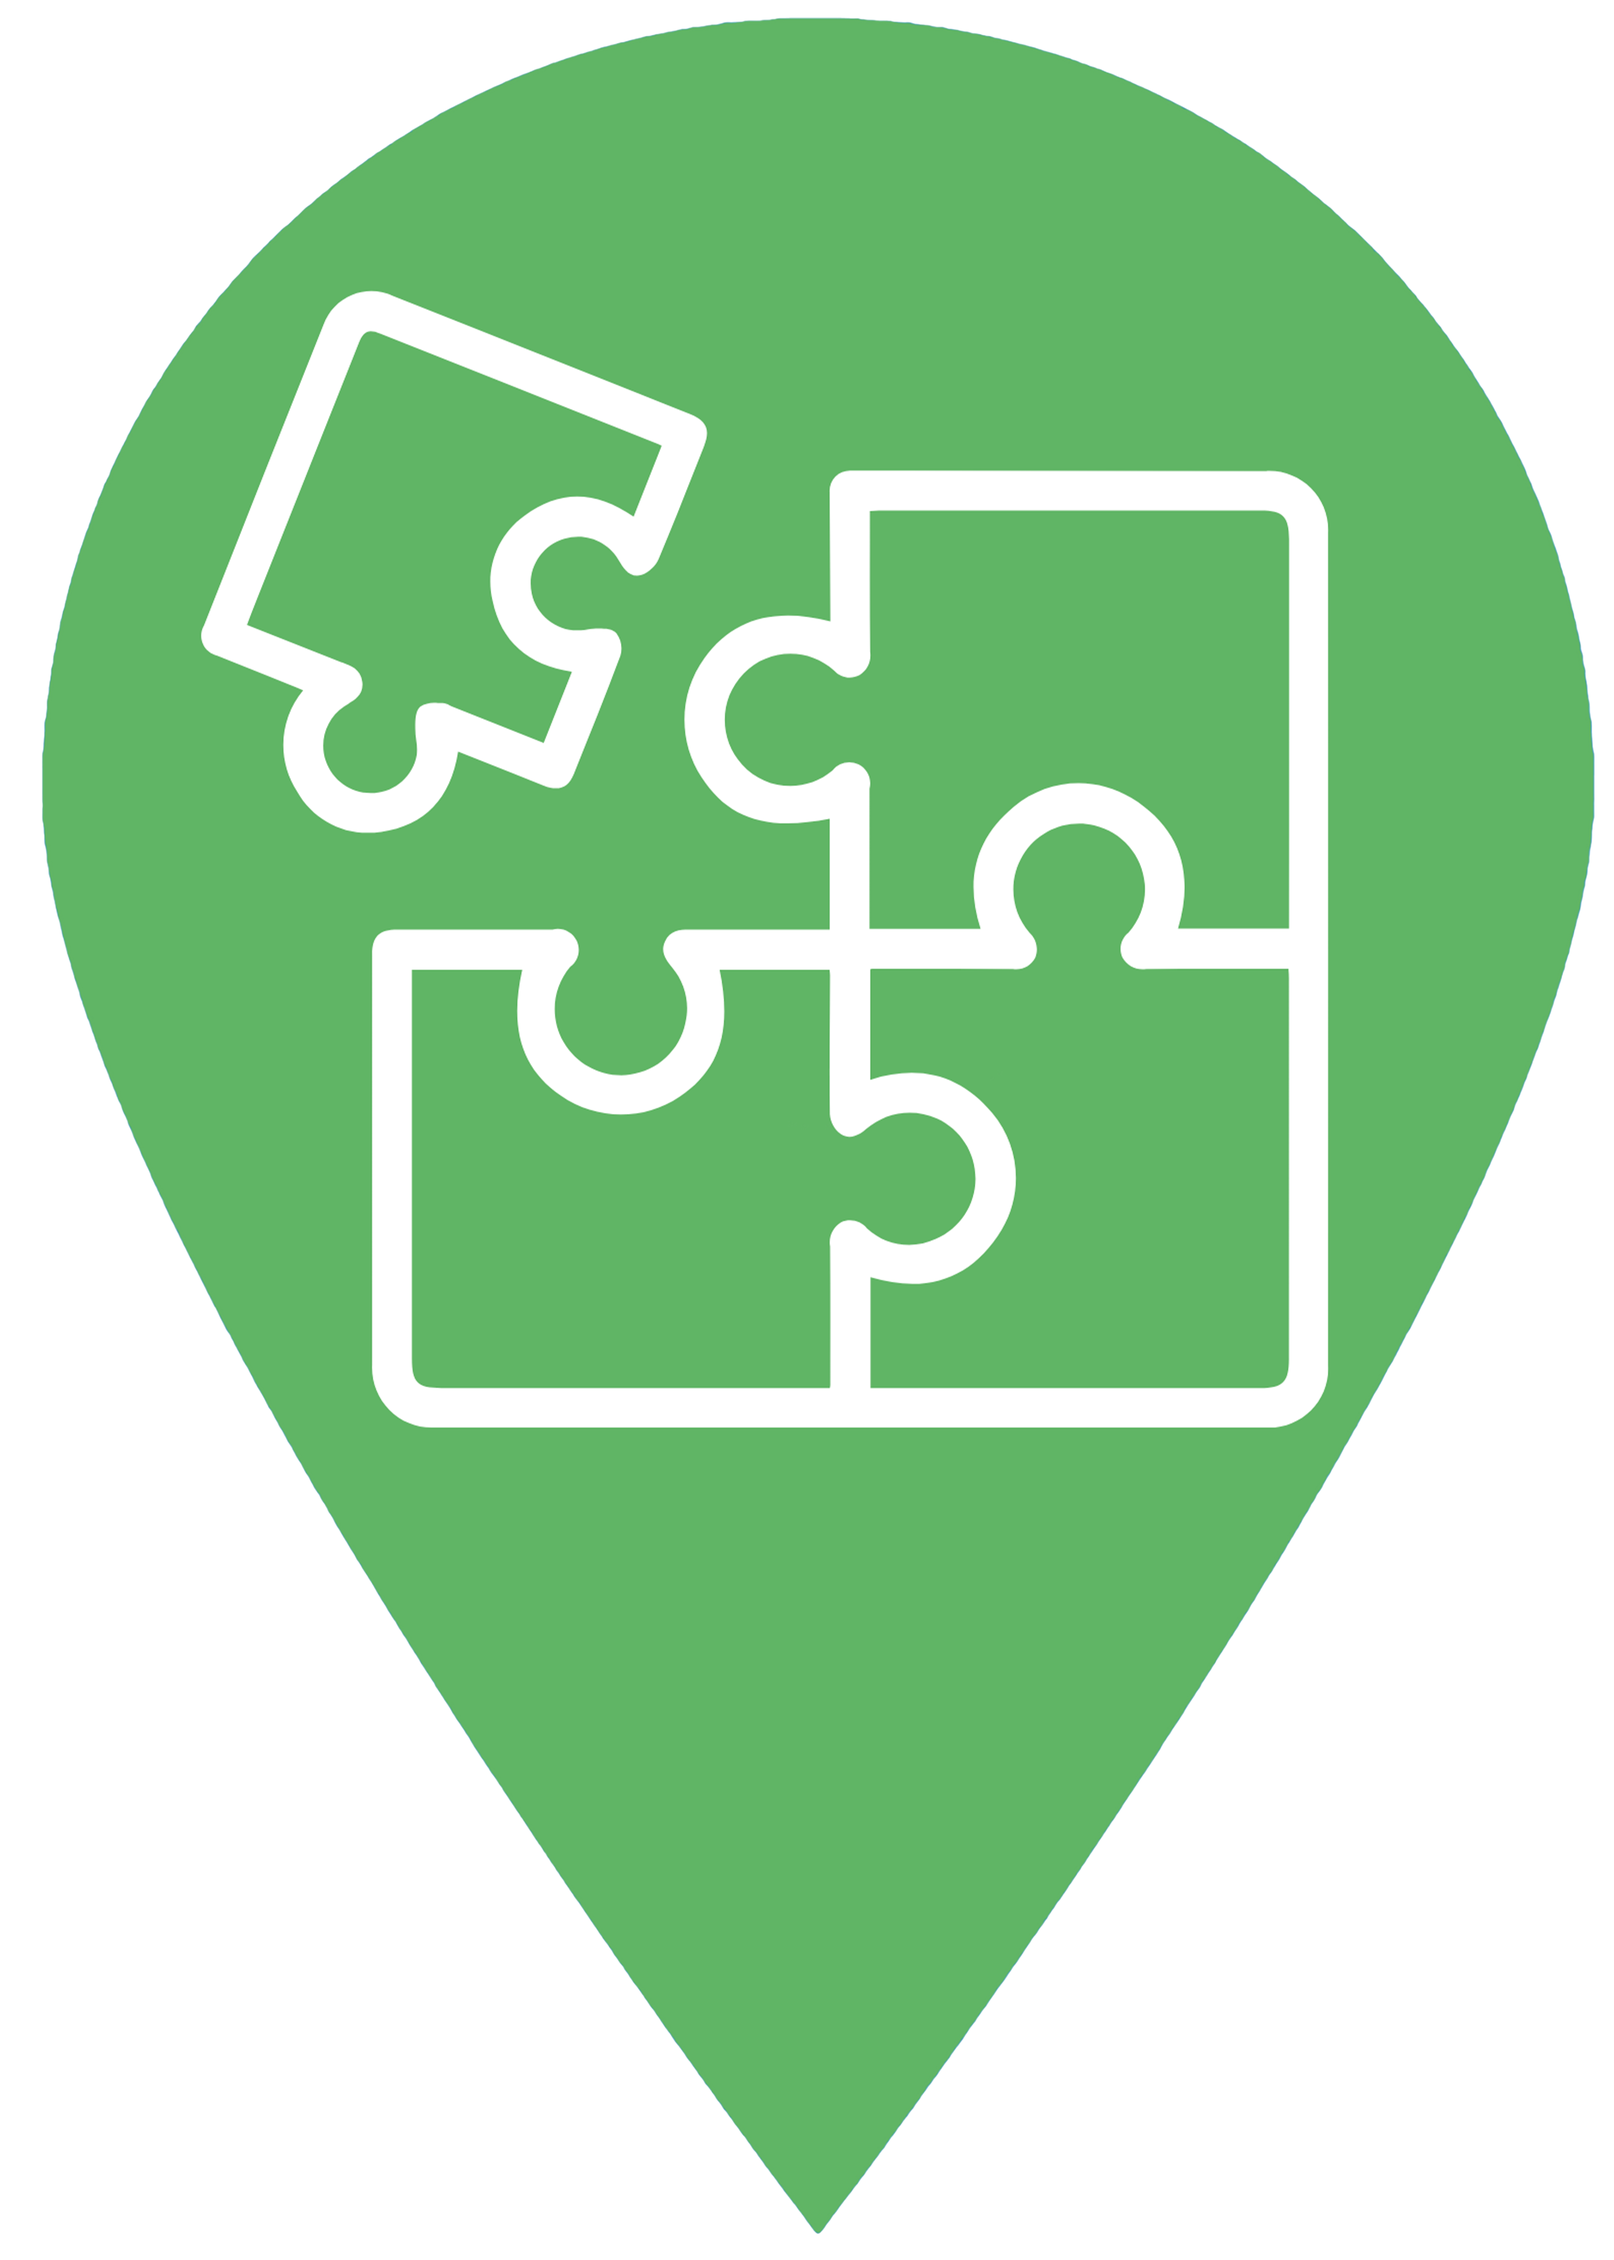
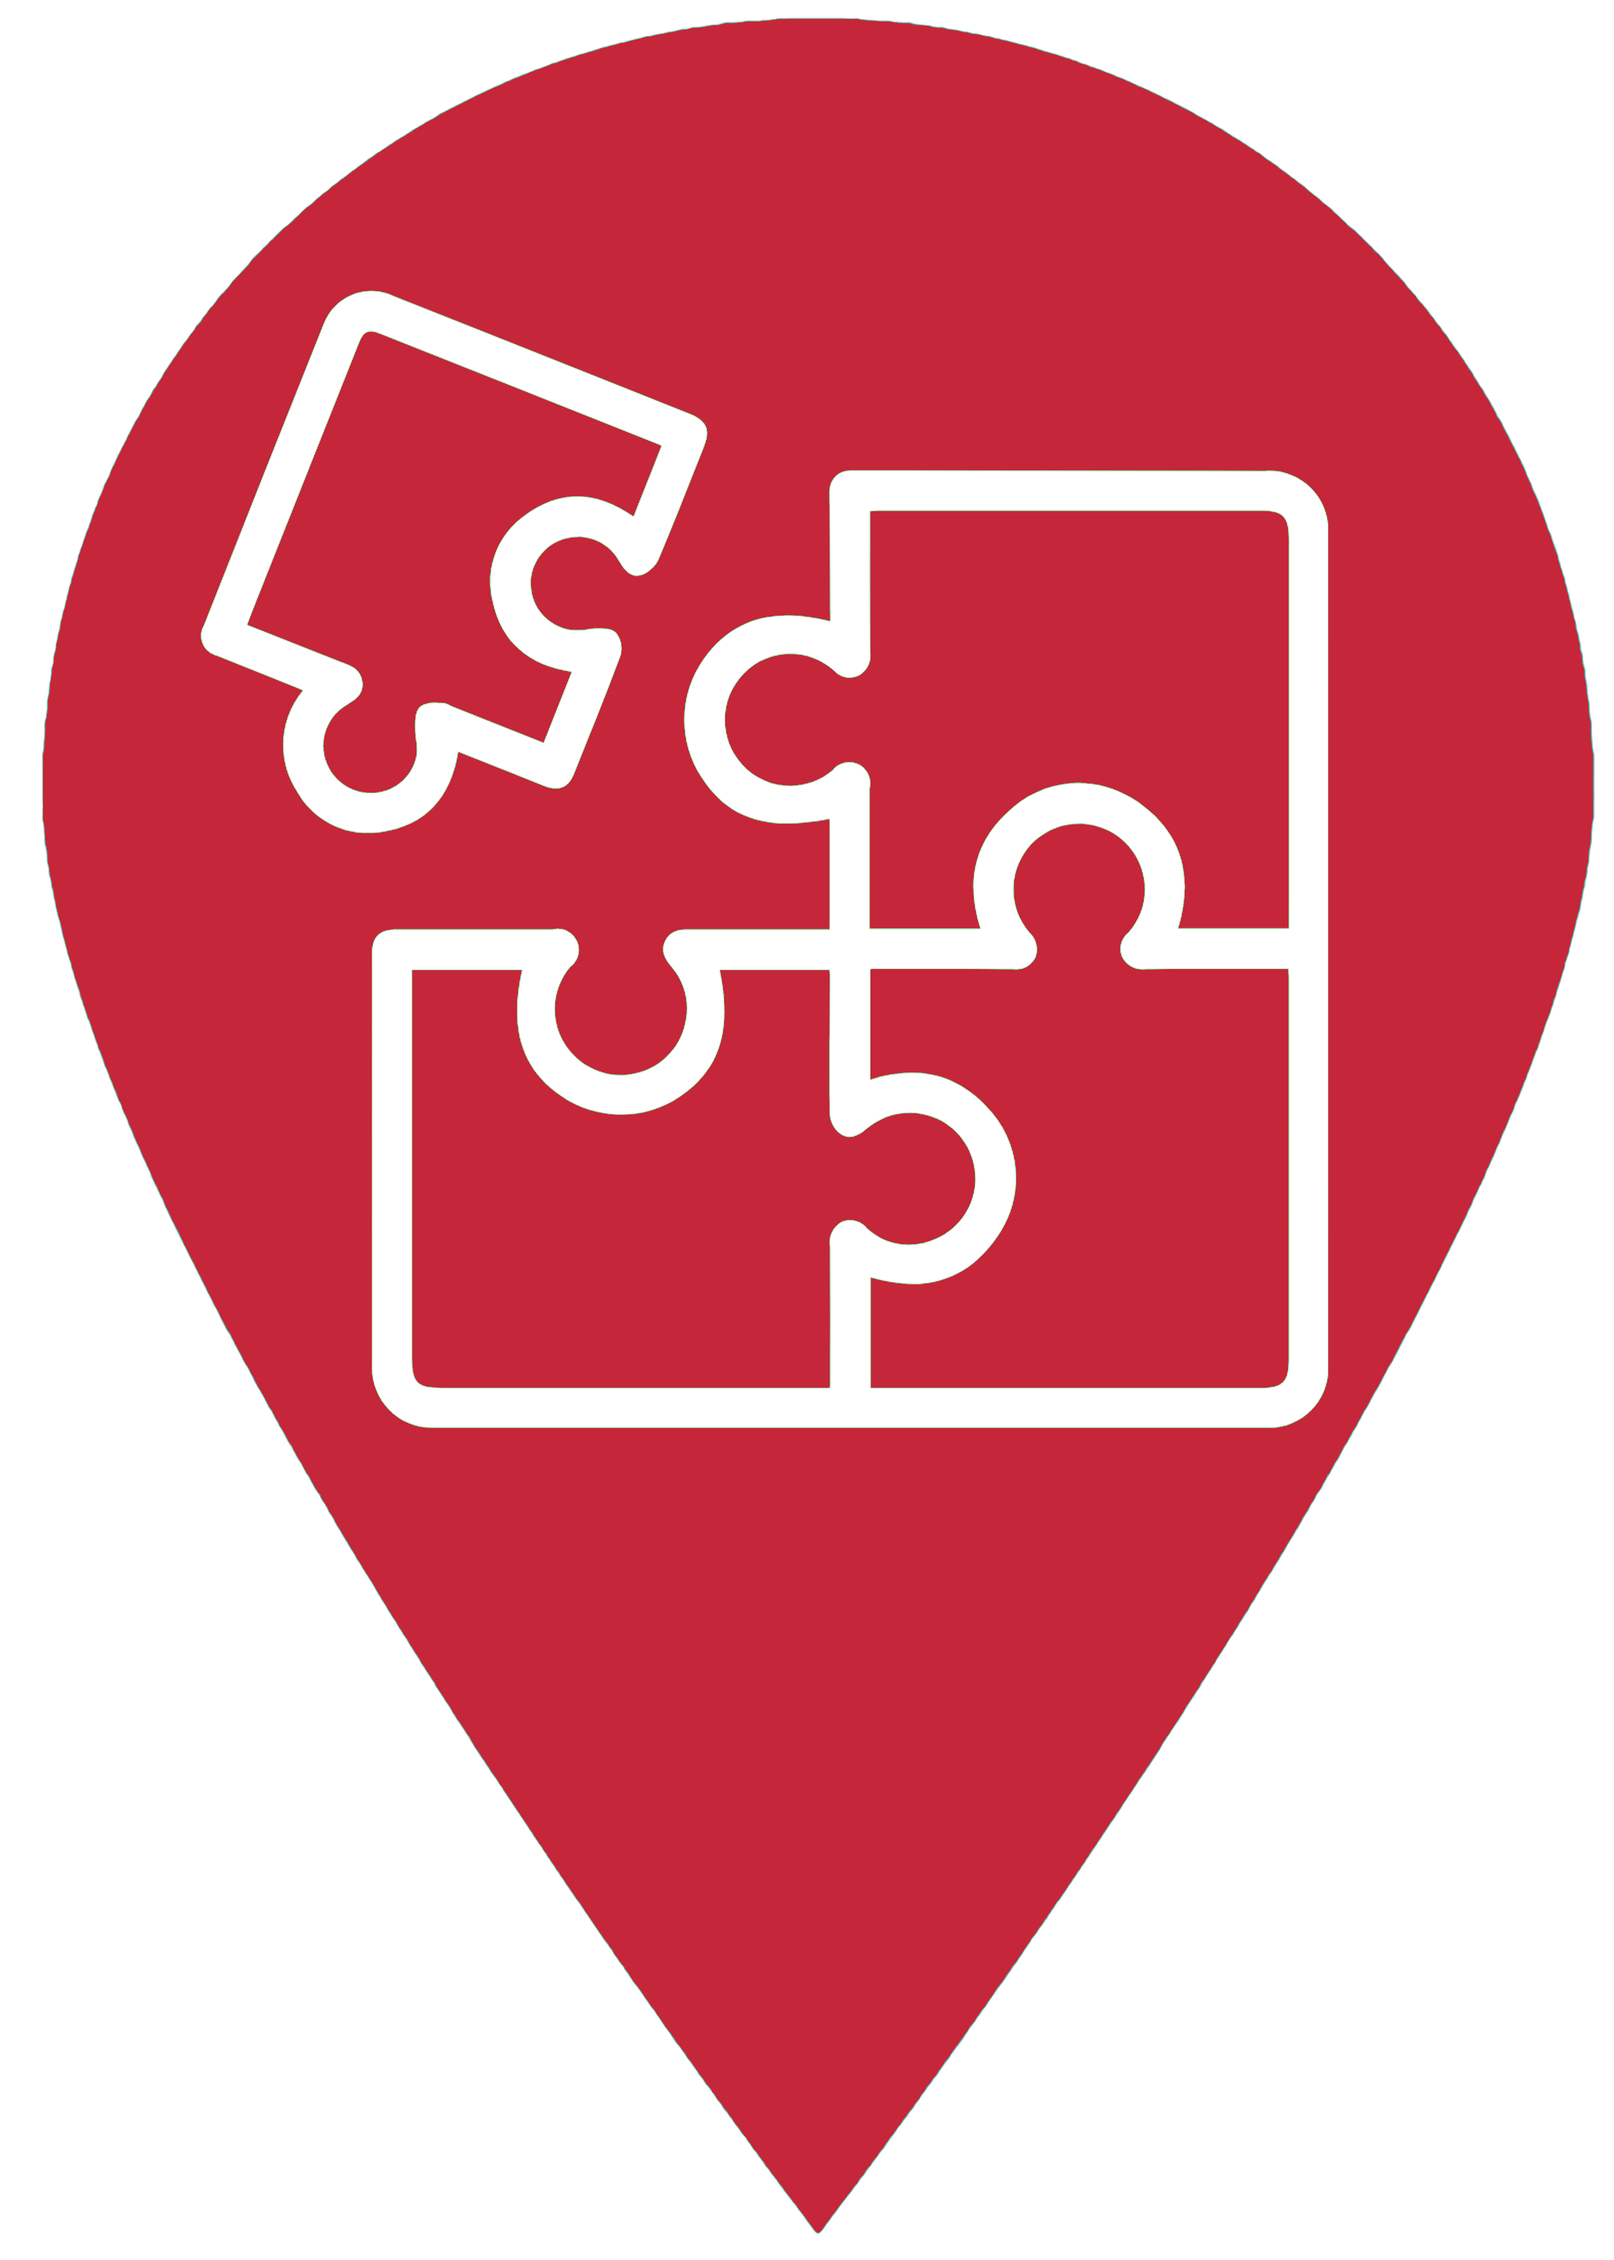
translation function done

diff --git a/map/assets/css/main.css b/map/assets/css/main.css
@@ -138,10 +138,9 @@ body {
   position: absolute;
   top: 1vmin;
   left: 1vmin;
-  /* background-color: #00853e; 20240114 */
   background-color: #32679A;
   color: white;
-  font-size: calc(var(--font-size) * 1.8); /* 20240114 */
+  font-size: calc(var(--font-size) * 1.8); 
   
 }
 
@@ -156,10 +155,9 @@ body {
   position: absolute;
   top: 1vmin;
   left: 1vmin;
-  /* background-color: #00853e; 20240114 */
   background-color: #32679A;
   color: white;
-  font-size: calc(var(--font-size) * 1.8); /* 20240114 */
+  font-size: calc(var(--font-size) * 1.8);
 }
 
 .show-button.sidebarbtn{
@@ -211,24 +209,24 @@ body {
 
 /* LANGUAGE BUTTONS */
 
-.english-button {
-  position: absolute;
-  top: 13vh;
-  left: 22.5vw;
+.italian-button, .english-button {
   background: none;
   border: none;
-  color: white;
-  font-size: calc(var(--font-size) * 1.2); /* 20240114 */
 }
 
-.italian-button {
+.italian-button > img {
   position: absolute;
-  top: 13vh;
-  left: 8.5vw;
-  background: none;
-  border: none;
-  color: white;
-  font-size: calc(var(--font-size) * 1.2); /* 20240114 */
+  top: 14vh;
+  left: 10.5vw;
+  width: 24px;
+  height: 17px;
+}
+.english-button > img {
+  position: absolute;
+  top: 14vh;
+  left: 25vw;
+  width: 24px;
+  height: 17px;
 }
 
 /* --------------------------- */
@@ -333,8 +331,7 @@ body {
   font-weight: 700;
   text-decoration: none; 
   color: white; 
-  background-color: #420ebb; 
-  filter: hue-rotate(-35deg);
+  background-color: #ea721d;
   padding: 10px; 
   min-height: 150px;
   border-radius: 25px;
@@ -349,7 +346,7 @@ body {
   font-weight: 700;
   text-decoration: none; 
   color: white; 
-  background-color: #EF7875; 
+  background-color: #29b8ce; 
   padding: 10px; 
   min-height: 150px;
   border-radius: 25px;
@@ -379,8 +376,7 @@ body {
   font-weight: 700;
   text-decoration: none;
   color: white;
-  background-color: #60B565;
-  filter: hue-rotate(-15deg);
+  background-color: #c52639;
   padding: 10px;
   min-height: 150px;
   border-radius: 25px;
@@ -453,12 +449,6 @@ body {
   font-weight: 400;
 }
 
-/*.listings .item.active .title,
-.listings .item .title:hover {
-  background-color: #8cc63f;
-  background-color: #EF7875;
-}*/
-
 .listings .item.active {
   border-color: #f8f8f8;
 }
@@ -510,7 +500,7 @@ body {
   cursor: pointer;
   height: 49px;
   width: 35px;
-  background-image: url("../img/markers/04_icona\ fontana.png");
+  background-image: url("../img/markers/monumenti.png");
   background-size: cover;
 }
 

diff --git a/map/assets/js/main.js b/map/assets/js/main.js
@@ -81,7 +81,47 @@ function translate(language) {
     document.getElementById('parking').innerHTML = translations[language].filterOptions[8];
     document.getElementById('portals').innerHTML = translations[language].filterOptions[9];
     document.getElementById('crafts').innerHTML = translations[language].filterOptions[10];
-
+    
+    const listingsContainer = document.getElementById('listings');
+    listingsContainer.innerHTML = '';
+    
+    stores.features.forEach(store => {
+        var prop = store.properties;
+        var listings = document.getElementById("listings");
+        var listing = listings.appendChild(document.createElement("div"));
+        listing.id = "listing-" + prop.id;
+        if (prop.markerType) {
+            listing.className = "item item-" + prop.markerType;
+        } else {
+            listing.className = "item item-default"; 
+        }
+        
+        var link = listing.appendChild(document.createElement("a"));
+        link.href = "#";
+        link.className = "title";
+        link.id = "link-" + prop.id;
+        console.log(link);
+        if (language === 'it') {
+            link.innerText = prop.address_it;
+        } else {
+            link.innerText = prop.address_en;
+        }
+        
+        link.addEventListener("click", function (e) {
+            for (var i = 0; i < stores.features.length; i++) {
+                if (this.id === "link-" + stores.features[i].properties.id) {
+                    var clickedListing = stores.features[i];
+                    flyToStore(clickedListing);
+                    makeHighlight(clickedListing);
+                }
+            }
+            var activeItem = document.getElementsByClassName("active");
+            if (activeItem[0]) {
+                activeItem[0].classList.remove("active");
+            }
+            this.parentNode.classList.add("active");
+        });
+    });
 }
 
 function english() {

diff --git a/map/assets/js/map-bevagna-it.js b/map/assets/js/map-bevagna-it.js
@@ -466,7 +466,7 @@ var stores = {
       }, 
       properties: {
         address_it: "Mestiere Gaita San Giovanni",
-        address_en: "Mestiere Gaita San Giovanni",
+        address_en: "Gaita San Giovanni Craft",
         city: "Bevagna",
         country: "Italy",
         postalCode: "06031",
@@ -483,7 +483,7 @@ var stores = {
       }, 
       properties: {
         address_it: "Mestiere Gaita San Giorgio",
-        address_en: "Gaita San Giorgio",
+        address_en: "Gaita San Giorgio Craft",
         city: "Bevagna",
         country: "Italy",
         postalCode: "06031",
@@ -500,7 +500,7 @@ var stores = {
       }, 
       properties: {
         address_it: "Mestiere Gaita San Pietro",
-        address_en: "Gaita San Pietro",
+        address_en: "Gaita San Pietro Craft",
         city: "Bevagna",
         country: "Italy",
         postalCode: "06031",
@@ -517,7 +517,7 @@ var stores = {
       }, 
       properties: {
         address_it: "Mestiere Gaita Santa Maria",
-        address_en: "Gaita Santa Maria",
+        address_en: "Gaita Santa Maria Craft",
         city: "Bevagna",
         country: "Italy",
         postalCode: "06031",

diff --git a/map/index.html b/map/index.html
@@ -33,8 +33,8 @@
                     <img class="logo-img" src="./assets/img/ProvaLogo.svg" alt="Logo del progetto">
                     <span id="logo-text"></span>
                 </div>
-                <button type="button" id="italian-btn" class="italian-button sidebarbtn" onclick="italian()"><div title="Filter the search">&#x1f1ee;&#x1f1f9;</div></button>
-                <button type="button" id="english-btn" class="english-button sidebarbtn" onclick="english()"><div title="Filter the search">&#x1f1ec;&#x1f1e7;</div></button>
+                <button type="button" id="italian-btn" class="italian-button sidebarbtn" onclick="italian()"><img src="./assets/img/flags/italianflag.png" alt="Italian version"></button>
+                <button type="button" id="english-btn" class="english-button sidebarbtn" onclick="english()"><img src="./assets/img/flags/britishflag.png" alt="English version"></button>
                 <select id="filter-dropdown">
                     <option id="all" value="all"></option>
                     <option id="default" value="default"></option>
